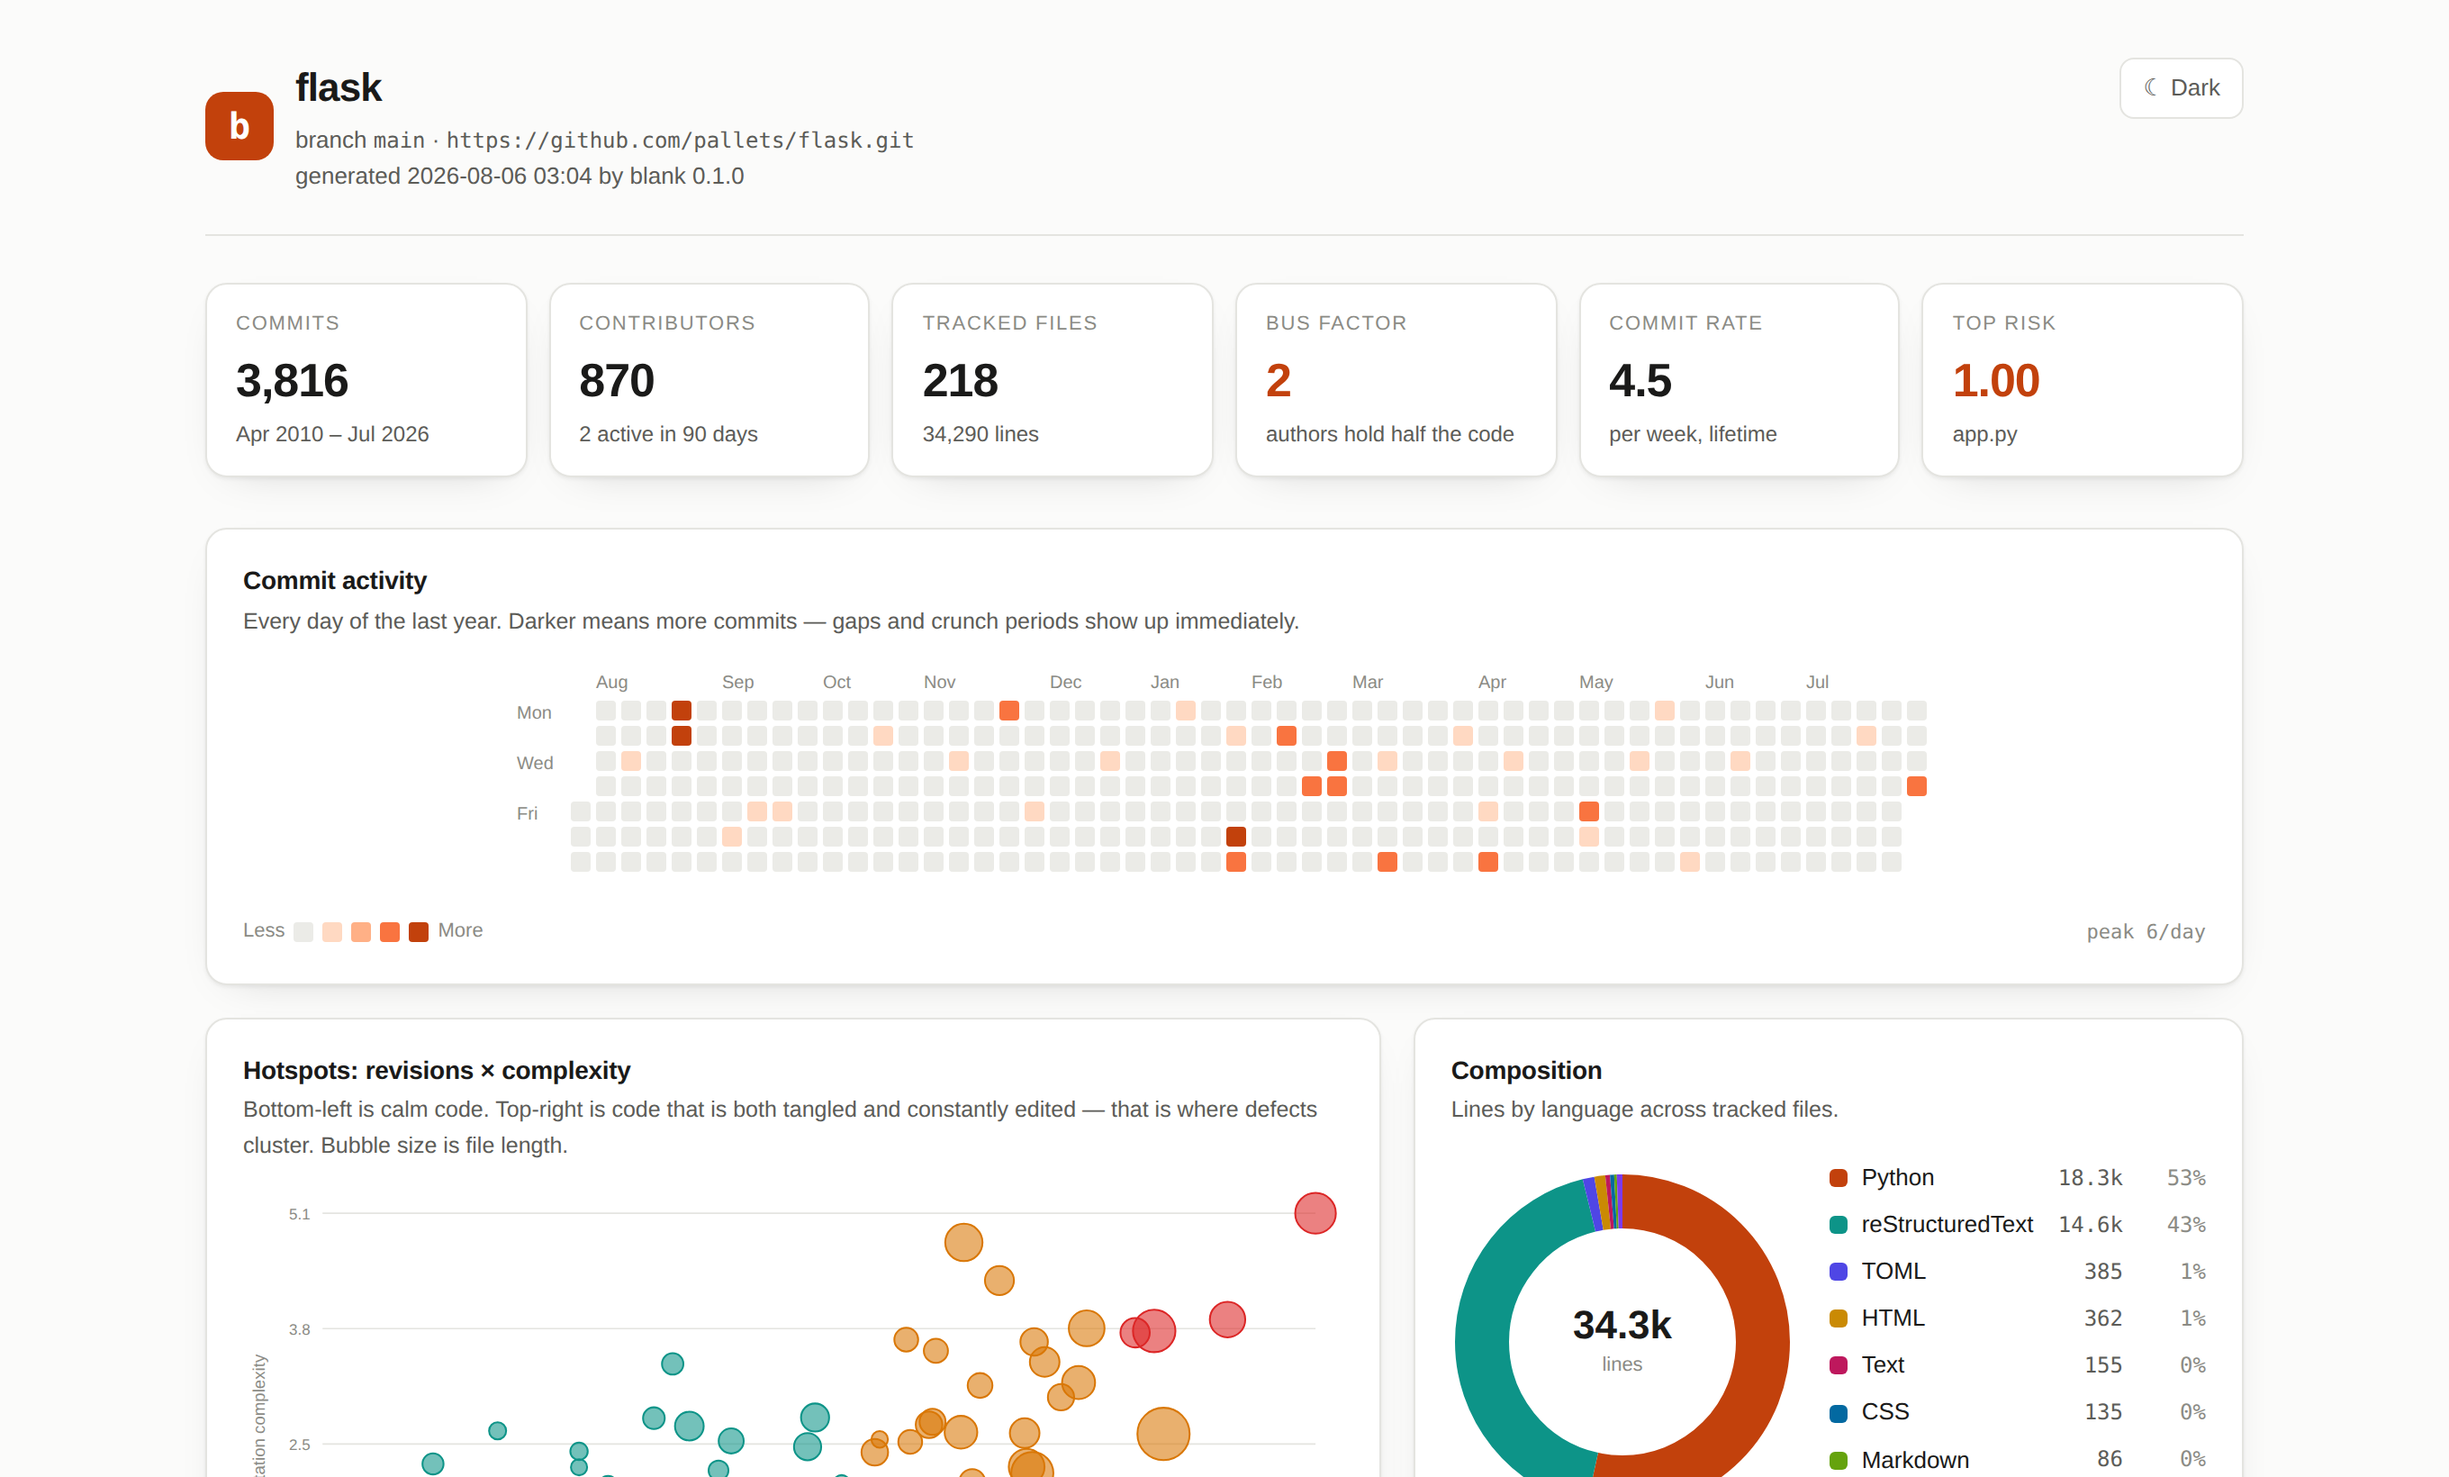
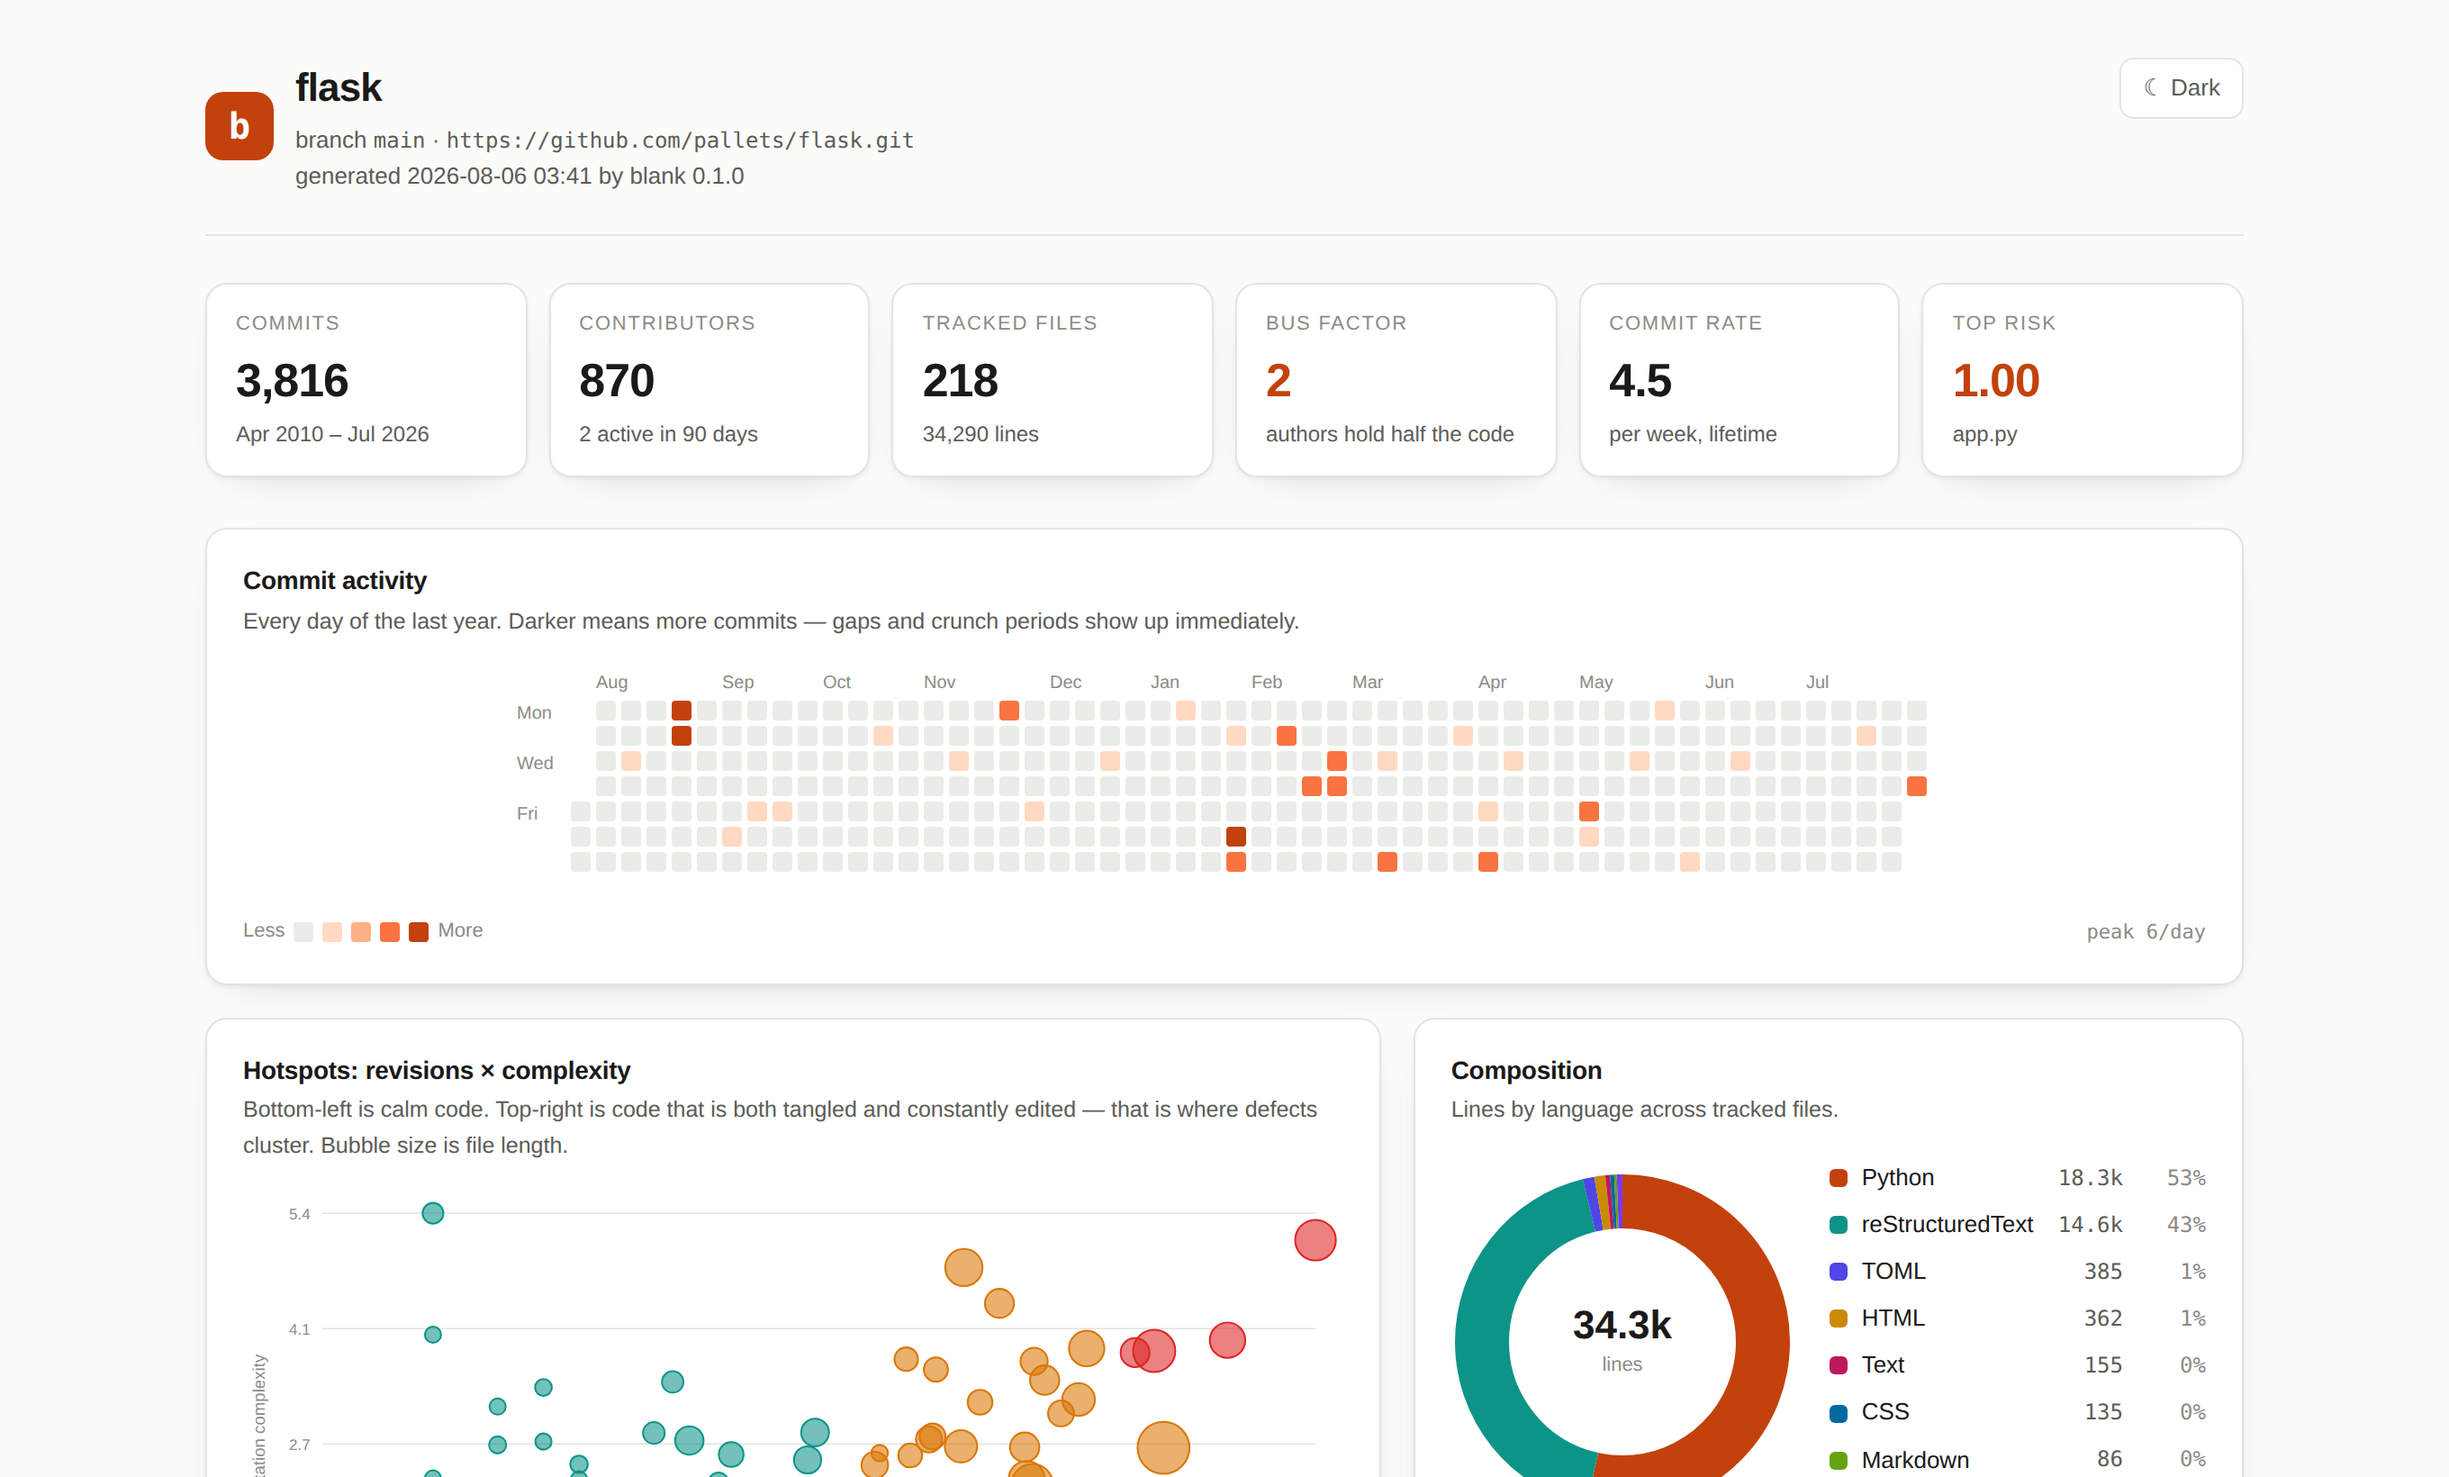
Measure nesting in levels, not columns, with a per-file indent unit
Complexity divided leading whitespace by a fixed four columns. Go and
Rust indent in fours so that was invisible in testing, but JavaScript,
TypeScript and Ruby overwhelmingly indent in twos - which halved their
measured depth and rounded one whole level of nesting down to zero. In a
polyglot repository the Python files would outrank the JavaScript ones no
matter how tangled the JavaScript actually was.

The indent unit is now detected per file as the most common positive step
between consecutive lines, the same heuristic editors use. Steps wider
than 8 columns are ignored as alignment rather than nesting.

Measured on real repositories: detection picks 4 for all 29 of cobra, 4
for 87 of 88 of ripgrep, and 2 for 78 of 79 of express. Express's median
complexity moves from below Go's to above it, which is what
callback-heavy Node should look like. Go, Rust and Python are unchanged.

Confirmed targeted rather than broad: rescanning Flask moves exactly
three files, all of them 2-space-indented HTML templates in the
JavaScript example. No Python file moves at all.

Found by checking the proxy against brace-heavy languages instead of
assuming it generalised from the two Python codebases it was built on.

Claude-Session: https://claude.ai/code/session_015GieBC2QYLY1LeHuSgqgSx

diff --git a/tests/test_scan_and_render.py b/tests/test_scan_and_render.py
@@ -43,8 +43,34 @@ class ClassifyTests(unittest.TestCase):
         self.assertFalse(scan.should_skip("src/app.js"))
 
 
+class IndentUnitTests(unittest.TestCase):
+    """One nesting level is not always four columns."""
+
+    def test_detects_four(self):
+        self.assertEqual(scan.detect_indent_unit([0, 4, 8, 4, 0, 4, 8, 12]), 4)
+
+    def test_detects_two(self):
+        # JavaScript, TypeScript and Ruby overwhelmingly indent in twos.
+        self.assertEqual(scan.detect_indent_unit([0, 2, 4, 2, 0, 2, 4, 6]), 2)
+
+    def test_detects_three(self):
+        self.assertEqual(scan.detect_indent_unit([0, 3, 6, 3, 0, 3, 6, 9]), 3)
+
+    def test_flat_file_falls_back(self):
+        self.assertEqual(scan.detect_indent_unit([0, 0, 0]), scan.TAB_WIDTH)
+        self.assertEqual(scan.detect_indent_unit([]), scan.TAB_WIDTH)
+
+    def test_giant_steps_are_alignment_not_nesting(self):
+        # Continuation lines aligned under a long call signature.
+        self.assertEqual(scan.detect_indent_unit([0, 40, 0, 40]), scan.TAB_WIDTH)
+
+    def test_never_returns_zero_or_negative(self):
+        for widths in ([0, 0], [5, 1, 5, 1], [0], [3, 3, 3]):
+            self.assertGreaterEqual(scan.detect_indent_unit(widths), 1, widths)
+
+
 class MeasureTests(unittest.TestCase):
-    def test_indentation_is_measured_in_four_space_units(self):
+    def test_depth_is_measured_in_nesting_levels(self):
         with TemporaryDirectory() as tmp:
             path = Path(tmp) / "x.py"
             path.write_text("def f():\n    if x:\n        return 1\n\n")
@@ -55,12 +81,44 @@ class MeasureTests(unittest.TestCase):
             self.assertEqual(mx, 2)
             self.assertAlmostEqual(mean, 1.0)
 
-    def test_tabs_count_as_one_unit(self):
+    def test_two_space_and_four_space_code_measure_the_same(self):
+        """The whole point: identical nesting must score identically.
+
+        Before per-file unit detection, the 2-space version scored half as
+        deep, so JavaScript could never outrank Python however tangled it got.
+        """
+        four = "def f():\n    if x:\n        if y:\n            return 1\n"
+        two = "function f() {\n  if (x) {\n    if (y) {\n      return 1;\n"
+        with TemporaryDirectory() as tmp:
+            a, b = Path(tmp) / "a.py", Path(tmp) / "b.js"
+            a.write_text(four)
+            b.write_text(two)
+            _, _, mean_a, max_a, _ = scan.measure(a)
+            _, _, mean_b, max_b, _ = scan.measure(b)
+            self.assertEqual((mean_a, max_a), (mean_b, max_b))
+            self.assertEqual(max_a, 3)
+
+    def test_tabs_count_as_one_level(self):
         with TemporaryDirectory() as tmp:
             path = Path(tmp) / "x.go"
             path.write_text("func f() {\n\treturn\n}\n")
             *_, mx, _ = scan.measure(path)
             self.assertEqual(mx, 1)
+
+    def test_tab_and_space_files_agree(self):
+        tabbed = "func f() {\n\tif x {\n\t\treturn 1\n\t}\n}\n"
+        spaced = "func f() {\n    if x {\n        return 1\n    }\n}\n"
+        with TemporaryDirectory() as tmp:
+            a, b = Path(tmp) / "a.go", Path(tmp) / "b.go"
+            a.write_text(tabbed)
+            b.write_text(spaced)
+            self.assertEqual(scan.measure(a), scan.measure(b))
+
+    def test_empty_file(self):
+        with TemporaryDirectory() as tmp:
+            path = Path(tmp) / "empty.py"
+            path.write_text("")
+            self.assertEqual(scan.measure(path), (0, 0, 0.0, 0, False))
 
     def test_binary_detected(self):
         with TemporaryDirectory() as tmp:

diff --git a/blank/scan.py b/blank/scan.py
@@ -3,6 +3,8 @@
 from __future__ import annotations
 
 import os
+from collections import Counter
+from collections.abc import Sequence
 from dataclasses import dataclass
 from pathlib import Path
 
@@ -63,6 +65,7 @@ SKIP_SUFFIXES = {
 
 MAX_BYTES = 2_000_000  # anything larger is almost certainly generated
 TAB_WIDTH = 4
+MAX_INDENT_UNIT = 8  # beyond this a "step" is alignment, not nesting
 
 
 @dataclass
@@ -113,20 +116,48 @@ def should_skip(rel_path: str) -> bool:
     return any(name.endswith(suffix) for suffix in SKIP_SUFFIXES)
 
 
-def _indent_units(line: str) -> int:
-    units = 0
+def _leading_columns(line: str) -> int:
+    """Width of *line*'s leading whitespace, tabs expanded."""
+    width = 0
     for ch in line:
         if ch == " ":
-            units += 1
+            width += 1
         elif ch == "\t":
-            units += TAB_WIDTH
+            width += TAB_WIDTH
         else:
             break
-    return units // TAB_WIDTH
+    return width
+
+
+def detect_indent_unit(widths: Sequence[int]) -> int:
+    """How many columns one nesting level is worth, for this file.
+
+    A fixed four columns is wrong for most of the web. Go and Rust indent in
+    fours, but JavaScript, TypeScript and Ruby overwhelmingly indent in twos —
+    so a fixed divisor halves their measured depth and rounds one level of
+    nesting down to zero. In a polyglot repository that guarantees the Python
+    files outrank the JavaScript ones no matter how tangled the JavaScript is.
+
+    The unit is the most common positive step between consecutive lines, which
+    is what editors use for the same job. Measured across cobra, ripgrep and
+    express it picks 4, 4 and 2 respectively, for 194 of 196 files.
+    """
+    steps: Counter[int] = Counter()
+    for previous, current in zip(widths, widths[1:]):
+        step = current - previous
+        if 0 < step <= MAX_INDENT_UNIT:
+            steps[step] += 1
+    if not steps:
+        return TAB_WIDTH
+    return max(1, min(MAX_INDENT_UNIT, steps.most_common(1)[0][0]))
 
 
 def measure(path: Path) -> tuple[int, int, float, int, bool]:
-    """Return ``(lines, code_lines, mean_indent, max_indent, binary)``."""
+    """Return ``(lines, code_lines, mean_indent, max_indent, binary)``.
+
+    Indent depths are in *nesting levels*, normalised per file, so a 2-space
+    codebase and a 4-space one are directly comparable.
+    """
     try:
         raw = path.read_bytes()
     except OSError:
@@ -135,13 +166,15 @@ def measure(path: Path) -> tuple[int, int, float, int, bool]:
         return 0, 0, 0.0, 0, True
     text = raw.decode("utf-8", errors="replace")
     lines = text.splitlines()
-    indents: list[int] = []
-    for line in lines:
-        if line.strip():
-            indents.append(_indent_units(line))
-    code_lines = len(indents)
-    mean = round(sum(indents) / code_lines, 3) if code_lines else 0.0
-    return len(lines), code_lines, mean, (max(indents) if indents else 0), False
+    widths = [_leading_columns(line) for line in lines if line.strip()]
+    code_lines = len(widths)
+    if not code_lines:
+        return len(lines), 0, 0.0, 0, False
+
+    unit = detect_indent_unit(widths)
+    levels = [width // unit for width in widths]
+    mean = round(sum(levels) / code_lines, 3)
+    return len(lines), code_lines, mean, max(levels), False
 
 
 def scan_tree(root: Path, tracked: set[str] | None = None) -> list[FileInfo]:

diff --git a/README.md b/README.md
@@ -364,11 +364,18 @@ reset a file's history to zero. This is the change-frequency axis.
 **Churn** — lines added + deleted. Reported in the table and the JSON as supporting detail,
 but deliberately *not* used for ranking, for the reason above.
 
-**Complexity** — mean indentation depth + 0.35 × max depth, in 4-space units. This is an
-*indentation proxy*, not an AST metric. It cannot tell a nested comprehension from a nested
-`if`. What it can do is work identically across 40 languages with no parser, and deeply
-indented code is genuinely harder to hold in your head regardless of syntax. Files under 5
-code lines score 0.
+**Complexity** — mean nesting depth + 0.35 × max depth. This is an *indentation proxy*, not
+an AST metric. It cannot tell a nested comprehension from a nested `if`. What it can do is
+work identically across 40 languages with no parser, and deeply indented code is genuinely
+harder to hold in your head regardless of syntax. Files under 5 code lines score 0.
+
+Depth is counted in **nesting levels, not columns**, with the indent unit detected per file
+from the most common step between consecutive lines. A fixed four columns would be wrong for
+most of the web: Go and Rust indent in fours, but JavaScript, TypeScript and Ruby indent in
+twos, so a fixed divisor halves their depth and rounds one level of nesting to zero — and in
+a polyglot repo the Python would outrank the JavaScript no matter how tangled the JavaScript
+got. Measured across cobra, ripgrep and express, detection picks 4, 4 and 2 for 194 of 196
+files.
 
 **Risk** — `normalise(revisions) × normalise(complexity)`, both `log1p`-scaled to 0..1 across
 the repository. It is a *relative* ranking: 0.9 means "worst in this repo", not "worse than
@@ -450,7 +457,7 @@ past 50k.
 
 ```bash
 git clone https://github.com/nikhilcherry/blank && cd blank
-python3 -m unittest discover -s tests -t . -v     # 128 tests, no dependencies
+python3 -m unittest discover -s tests -t . -v     # 137 tests, no dependencies
 python3 -m blank scan . --open                    # run it on itself
 ```
 
